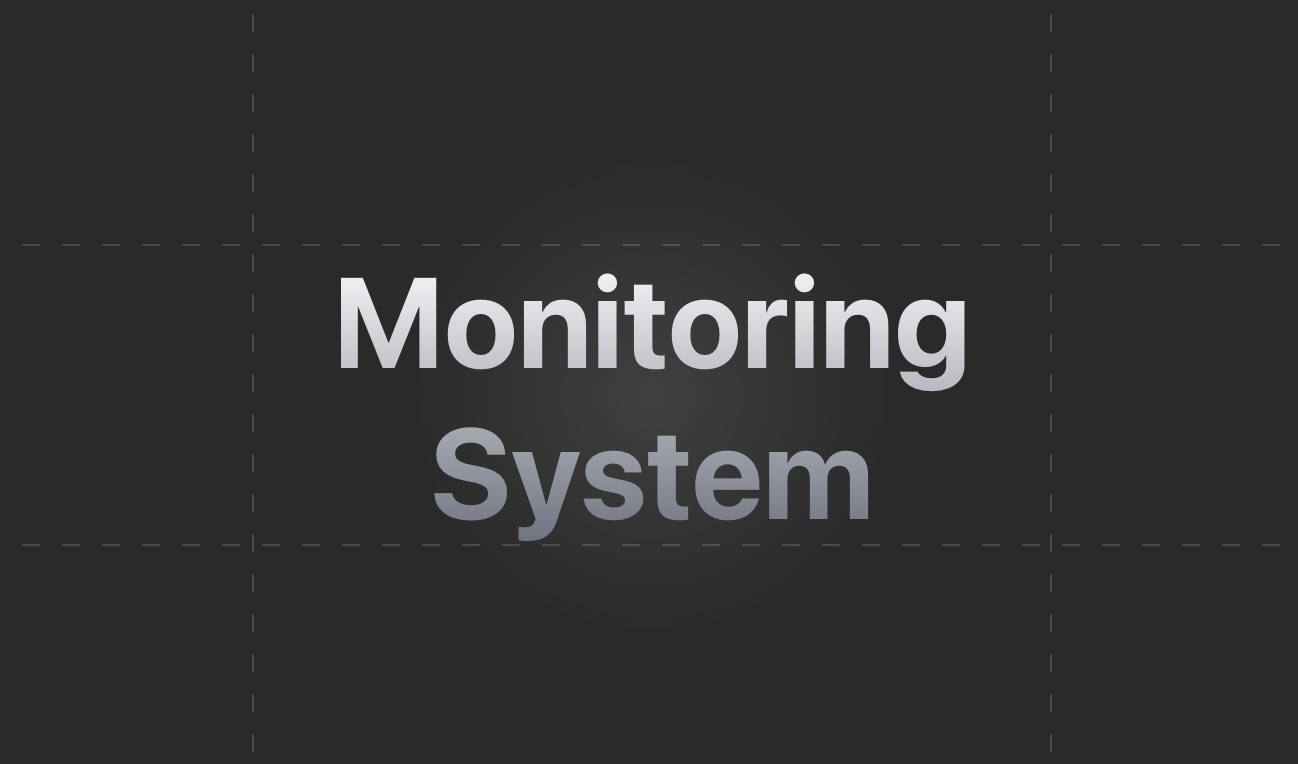
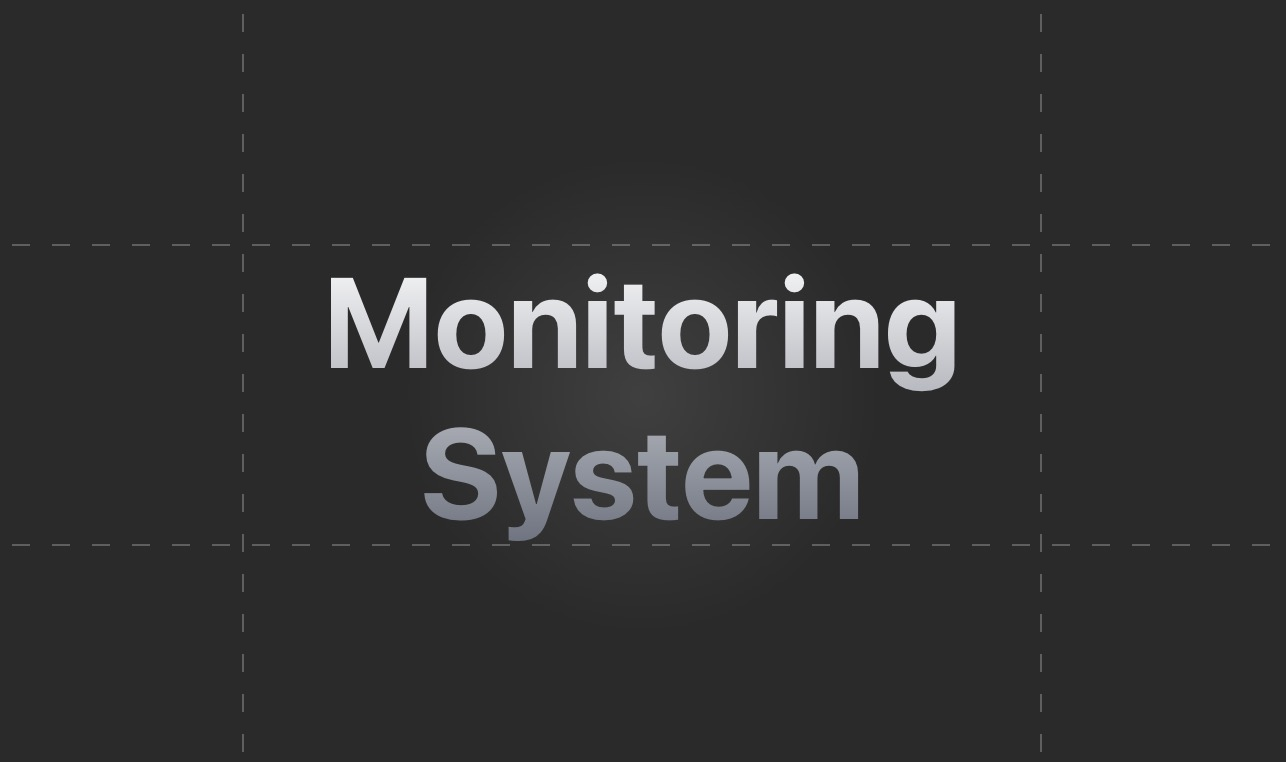
chore: Change grid line transparency

Changed region(s): [[0.2488, 0.3622, 0.7465, 0.5131], [0.311, 0.5735, 0.6532, 0.7244], [0.1866, 0.6942, 0.2177, 0.7244]]

diff --git a/src/views/ThumbnailView.vue b/src/views/ThumbnailView.vue
@@ -45,8 +45,8 @@
       top: calc(#{$offset} / 2 * -1);
       background: linear-gradient(
         to bottom,
-        hsla(0, 0%, 100%, 0.15),
-        hsla(0, 0%, 100%, 0.15) 45%,
+        hsla(0, 0%, 100%, 0.25),
+        hsla(0, 0%, 100%, 0.25) 45%,
         // odstęp między liniami
         transparent 0
       );
@@ -62,8 +62,8 @@
       left: calc(#{$offset} / 2 * -1);
       background: linear-gradient(
         to right,
-        hsla(0, 0%, 100%, 0.15),
-        hsla(0, 0%, 100%, 0.15) 45%,
+        hsla(0, 0%, 100%, 0.25),
+        hsla(0, 0%, 100%, 0.25) 45%,
         // odstęp między liniami
         transparent 0
       );
